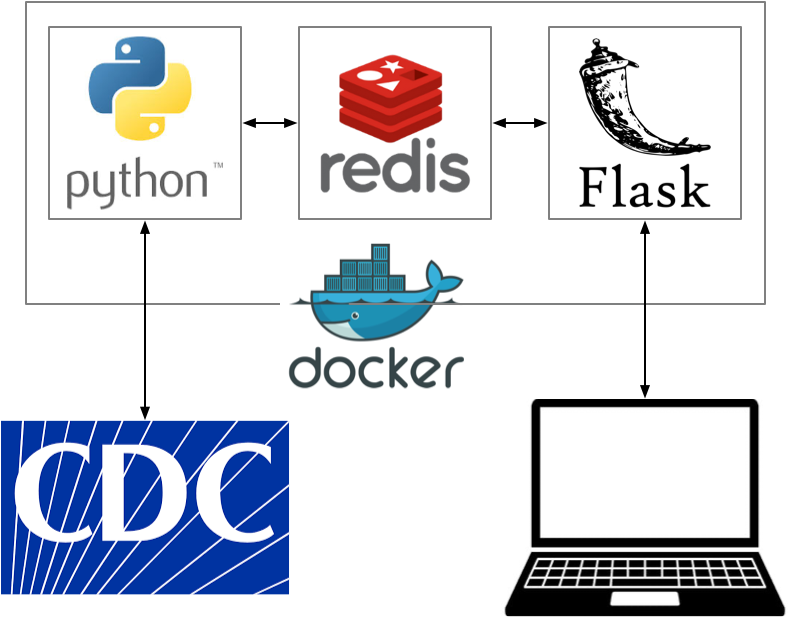
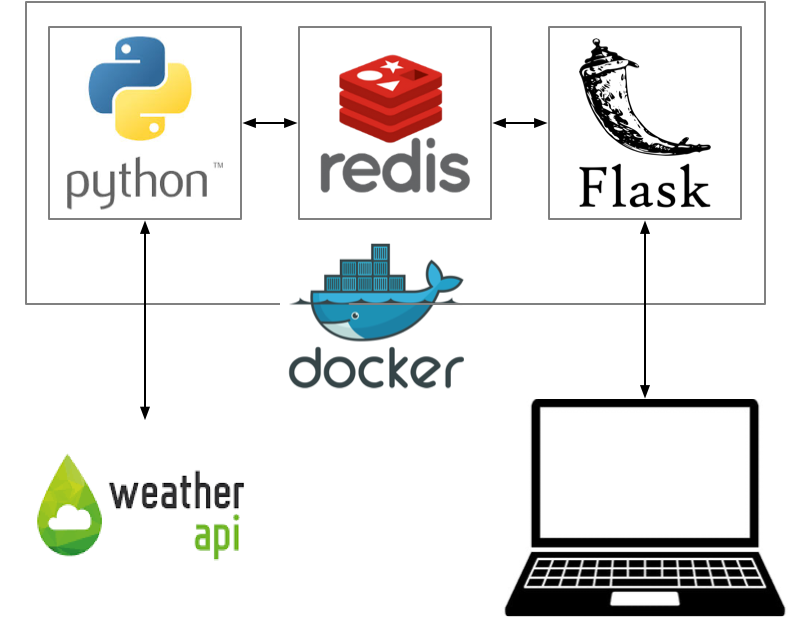
Covert to weather app

Changed region(s): [[0.0, 0.6775, 0.3646, 0.9854]]

diff --git a/collector/collector.py b/collector/collector.py
@@ -9,16 +9,23 @@ dotenv.load_dotenv()
 
 host = os.getenv('REDIS_HOST')
 port = os.getenv('REDIS_PORT')
+api_key = os.getenv('API_KEY')
 
 r = redis.Redis(host=host, port=port)
 
 while True:
-    url = 'https://data.cdc.gov/resource/9mfq-cb36.json'
-    results = requests.get(url).json()
+    url = 'http://api.weatherapi.com/v1/current.json'
 
-    confirmed = sum([int(result['tot_cases']) for result in results])
+    params = {
+        'key': api_key,
+        'q': '18018',
+    }
 
-    r.set('confirmed', confirmed)
+    results = requests.get(url, params=params).json()
+
+    temp_f = results['current']['temp_f']
+
+    r.set('temp_f', temp_f)
     # Flush the buffer to ensure it is printed immediately
-    print('Saved {}. Sleeping for 15 minutes'.format(confirmed), flush=True)
+    print('Saved {}. Sleeping for 15 minutes'.format(temp_f), flush=True)
     time.sleep(15 * 60)

diff --git a/server/server.py b/server/server.py
@@ -4,19 +4,27 @@ import dotenv
 import os
 
 app = Flask(__name__)
+
 dotenv.load_dotenv()
 
 host = os.getenv('REDIS_HOST')
 port = os.getenv('REDIS_PORT')
-
 r = redis.Redis(host=host, port=port)
 
 
 @app.route('/')
 def home():
-    confirmed = int(r.get('confirmed'))
-    return 'confirmed: {}'.format(confirmed)
+    temp_f = float(r.get('temp_f'))
+    return 'temp_f: {}'.format(temp_f)
 
 
 if __name__ == '__main__':
-   app.run(host='0.0.0.0', port=8000)
+    if os.getenv('REDIS_HOST') is None:
+        print('REDIS_HOST is not set')
+        exit(1)
+
+    if os.getenv('REDIS_PORT') is None:
+        print('REDIS_PORT is not set')
+        exit(1)
+
+    app.run(host='0.0.0.0', port=8000)

diff --git a/README.md b/README.md
@@ -1,6 +1,6 @@
 ## Overview
 
-Our goal is to *Dockerize* the collector, redis server, and flask server of the simple COVID app. We will:
+Our goal is to *Dockerize* the collector, redis server, and flask server of the weather app. We will:
 
 * Create containers for the collector and server
 * Develop commands to launch and destroy the redis, collector, and server containers
@@ -10,28 +10,28 @@ Our goal is to *Dockerize* the collector, redis server, and flask server of the 
 
 ## Build a Container for the Collector
 
-* Create a `Dockerfile` (same basic pattern as the `db_simple_web_server`)
-* Build the Docker container and tag it with the name `covid_collector`
+* Create a `Dockerfile`
+* Build the Docker container and tag it with the name `weather_collector`
 
 ## Build a Container for the Server
 
 * Create a `Dockerfile` (same basic pattern as the collector)
-* Build the Docker container and tag it with the name `covid_server`
+* Build the Docker container and tag it with the name `weather_server`
 
 ## Launch the System
 
-* Create a network named `covid`
+* Create a network named `weather`
 * Launch a Redis container 
-  * Run the container in the `covid` network
+  * Run the container in the `weatherweather` network
   * Name the container `redis`
-* Launch an instance of the `covid_collector`
-  * Run the container in the `covid` network
-  * Name the container `covid_collector`
+* Launch an instance of the `weather_collector`
+  * Run the container in the `weather` network
+  * Name the container `weather_collector`
   * Create an environment variable named `REDIS_HOST` with the value `redis`
   * Create an environment variable named `REDIS_PORT` with the value 6379
-* Launch an instance of the `covid_server`
-  * Launch the container in the `covid` network
-  * Name the container `covid_server`
+* Launch an instance of the `weather_server`
+  * Launch the container in the `weather` network
+  * Name the container `weather_server`
   * Create an environment variable named `REDIS_HOST` with the value `redis`
   * Create an environment variable named `REDIS_PORT`
   * Expose port 8000
